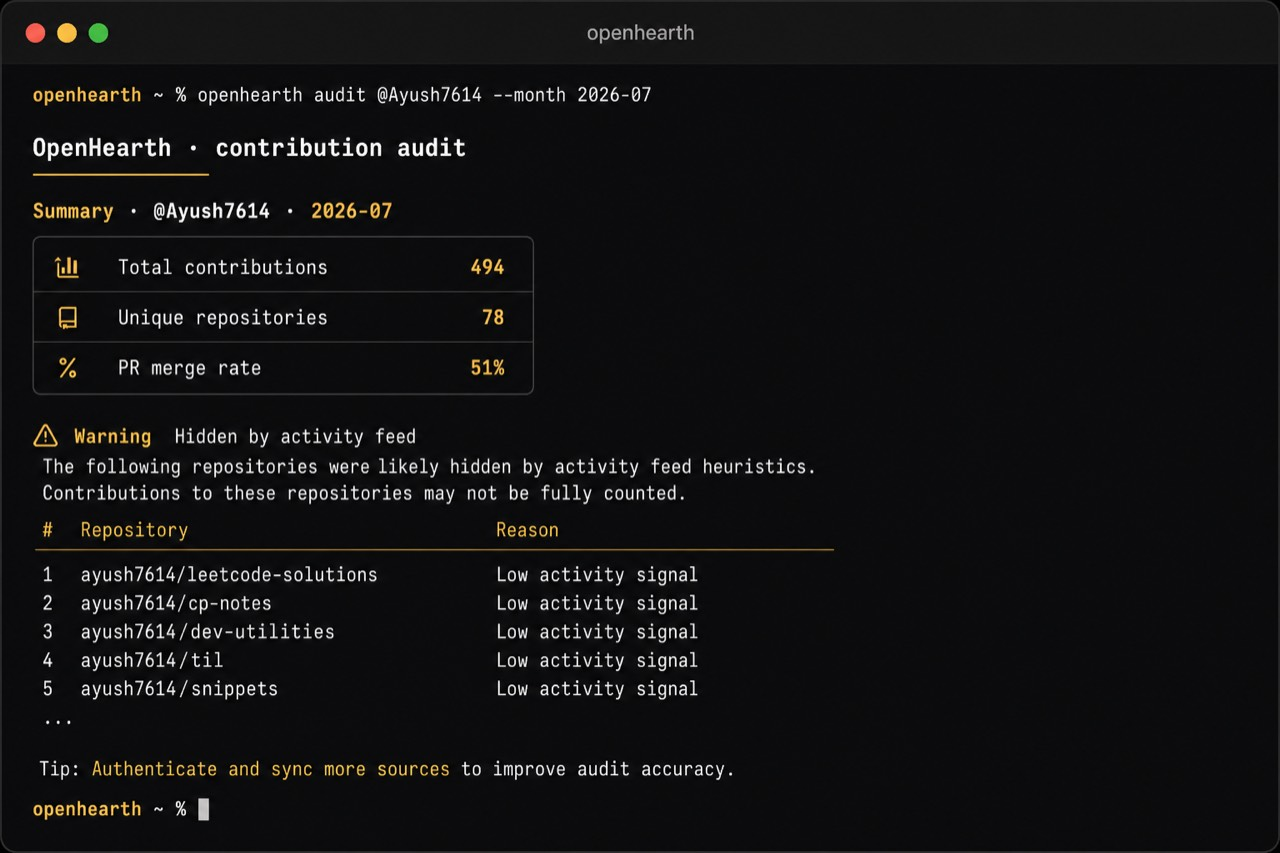
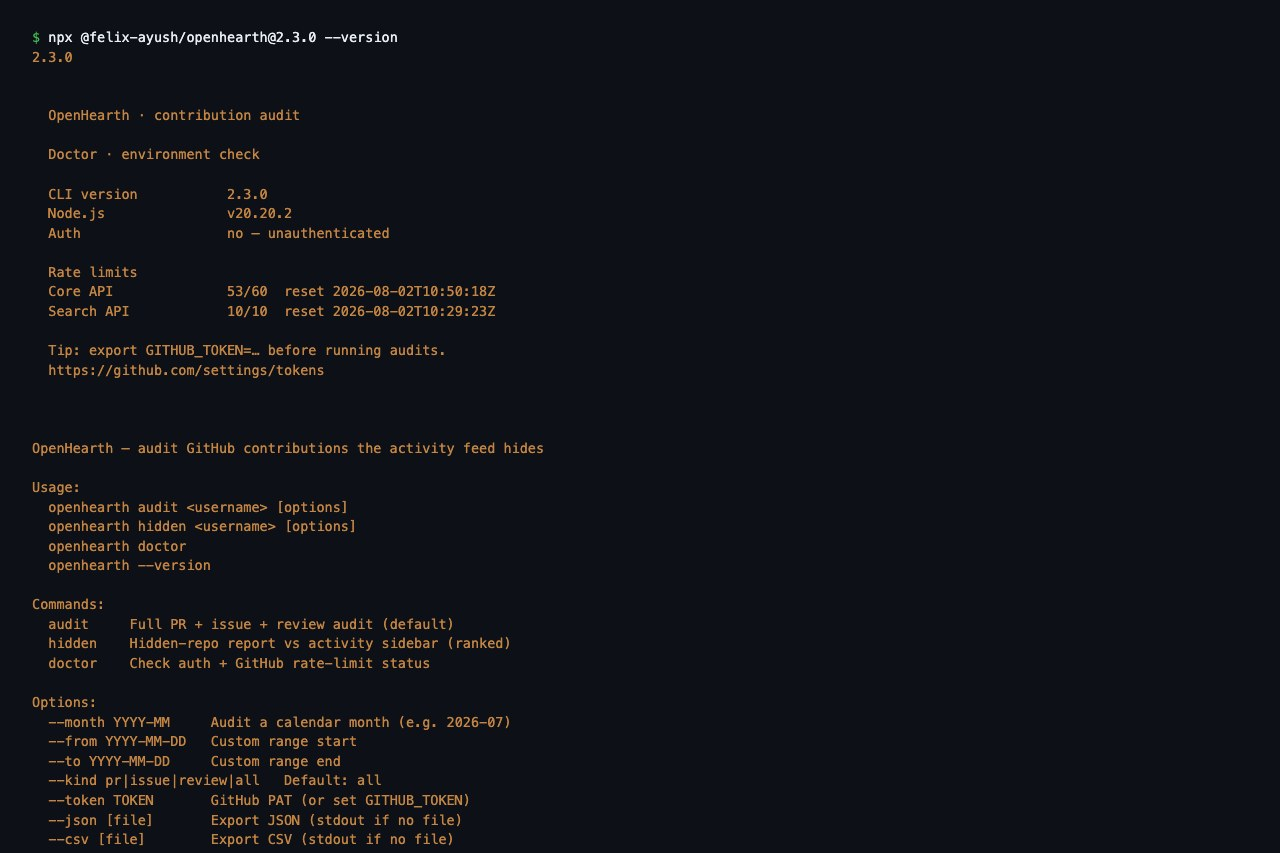
Replace README product shots with live Pages and CLI captures.
Add board.jpg and a small capture script so screenshots stay regenerable from the published site.

Changed region(s): [[0.0312, 0.4877, 0.625, 1.0], [0.0, 0.0305, 0.5, 0.4572], [0.4688, 0.0305, 0.5312, 0.061]]

diff --git a/scripts/capture-readme-shots.py b/scripts/capture-readme-shots.py
@@ -1,0 +1,121 @@
+#!/usr/bin/env python3
+"""Capture real README product screenshots from Pages + CLI."""
+
+from __future__ import annotations
+
+import html
+import os
+import pathlib
+import re
+import subprocess
+
+from playwright.sync_api import sync_playwright
+
+OUT = pathlib.Path(__file__).resolve().parents[1] / "docs" / "images"
+CHROME = "/Applications/Google Chrome.app/Contents/MacOS/Google Chrome"
+BASE = "https://ayush7614.github.io/OpenHearth/"
+ANSI_RE = re.compile(r"\x1b\[[0-9;]*[A-Za-z]|\[[0-9;]*m")
+
+
+def strip_ansi(text: str) -> str:
+    return ANSI_RE.sub("", text)
+
+
+def capture_site() -> None:
+    with sync_playwright() as p:
+        browser = p.chromium.launch(executable_path=CHROME, headless=True)
+
+        page = browser.new_page(viewport={"width": 1280, "height": 853})
+        page.goto(BASE, wait_until="networkidle", timeout=60000)
+        page.wait_for_timeout(1500)
+        page.screenshot(path=str(OUT / "landing.jpg"), type="jpeg", quality=88)
+        print("landing ok")
+        page.close()
+
+        # Tall viewport so we can clip Trends + MoM compare into 1280×853
+        context = browser.new_context(viewport={"width": 1280, "height": 1600})
+        page = context.new_page()
+        page.goto(BASE + "#/app", wait_until="networkidle", timeout=60000)
+        page.wait_for_timeout(1200)
+        page.evaluate("() => { localStorage.clear(); sessionStorage.clear(); }")
+        page.reload(wait_until="networkidle")
+        page.wait_for_timeout(1800)
+
+        got_it = page.locator("#dismiss-onboard")
+        if got_it.count() and got_it.is_visible():
+            got_it.click()
+
+        alice = page.locator('a.ws-card-main:has-text("Alice")')
+        if alice.count():
+            alice.first.click()
+        else:
+            page.locator(".ws-card-main").first.click()
+        page.wait_for_timeout(2000)
+        page.wait_for_selector("#chart-panel svg, #chart-panel canvas, #chart-panel .chart", timeout=10000)
+        box = page.locator(".track-section").bounding_box() or {"y": 700}
+        y = max(0, float(box["y"]) - 120)
+        page.screenshot(
+            path=str(OUT / "workspace.jpg"),
+            type="jpeg",
+            quality=90,
+            clip={"x": 0, "y": y, "width": 1280, "height": 853},
+        )
+        print("workspace ok")
+
+        page.goto(BASE + "#/app/board", wait_until="networkidle", timeout=60000)
+        page.wait_for_timeout(1500)
+        compare = page.locator('button:has-text("Compare")')
+        if compare.count() and compare.is_visible():
+            compare.click()
+            page.wait_for_timeout(800)
+        page.set_viewport_size({"width": 1280, "height": 853})
+        page.screenshot(path=str(OUT / "board.jpg"), type="jpeg", quality=88)
+        print("board ok")
+        browser.close()
+
+
+def capture_cli() -> None:
+    env = {**os.environ, "NO_COLOR": "1", "FORCE_COLOR": "0", "TERM": "dumb"}
+    parts: list[str] = []
+    for cmd in [
+        ["npx", "--yes", "@felix-ayush/openhearth@2.3.0", "--version"],
+        ["npx", "--yes", "@felix-ayush/openhearth@2.3.0", "doctor"],
+        ["npx", "--yes", "@felix-ayush/openhearth@2.3.0", "--help"],
+    ]:
+        try:
+            result = subprocess.run(
+                cmd, capture_output=True, text=True, timeout=180, check=False, env=env
+            )
+            parts.append(strip_ansi((result.stdout or "") + (result.stderr or "")))
+        except Exception as exc:  # noqa: BLE001
+            parts.append(str(exc))
+
+    cli = "\n".join(parts)[:2400]
+    safe = html.escape(cli)
+    tmp = OUT / "_cli.html"
+    tmp.write_text(
+        f"""<!DOCTYPE html><html><head><meta charset="utf-8"><style>
+html,body{{margin:0;background:#0d1117}}
+.term{{font-family:ui-monospace,SFMono-Regular,Menlo,Monaco,Consolas,monospace;font-size:13.5px;line-height:1.45;
+color:#e6edf3;padding:28px 32px;white-space:pre-wrap;width:1280px;height:853px;box-sizing:border-box;overflow:hidden}}
+.prompt{{color:#3fb950}}.accent{{color:#c48442}}
+</style></head><body><div class="term"><span class="prompt">$</span> npx @felix-ayush/openhearth@2.3.0 --version
+<span class="accent">{safe}</span>
+</div></body></html>"""
+    )
+
+    with sync_playwright() as p:
+        browser = p.chromium.launch(executable_path=CHROME, headless=True)
+        page = browser.new_page(viewport={"width": 1280, "height": 853})
+        page.goto(tmp.as_uri())
+        page.screenshot(path=str(OUT / "cli.jpg"), type="jpeg", quality=88)
+        print("cli ok")
+        browser.close()
+    tmp.unlink(missing_ok=True)
+
+
+if __name__ == "__main__":
+    OUT.mkdir(parents=True, exist_ok=True)
+    capture_site()
+    capture_cli()
+    print("done", sorted(p.name for p in OUT.iterdir()))

diff --git a/README.md b/README.md
@@ -15,9 +15,9 @@
 
 ## Product
 
-| Landing & docs | Browser workspaces | CLI |
-| --- | --- | --- |
-| <img src="docs/images/landing.jpg" alt="OpenHearth landing" width="280" /> | <img src="docs/images/workspace.jpg" alt="OpenHearth workspace UI" width="280" /> | <img src="docs/images/cli.jpg" alt="OpenHearth CLI terminal output" width="280" /> |
+| Landing & docs | Workspace detail | Multi-user board | CLI |
+| --- | --- | --- | --- |
+| <img src="docs/images/landing.jpg" alt="OpenHearth landing" width="220" /> | <img src="docs/images/workspace.jpg" alt="OpenHearth workspace with charts" width="220" /> | <img src="docs/images/board.jpg" alt="OpenHearth multi-user board compare" width="220" /> | <img src="docs/images/cli.jpg" alt="OpenHearth CLI terminal output" width="220" /> |
 
 - **Workspaces** — create a space per GitHub user, run audits, save months, chart trends, share reports, import CLI JSON  
 - **Board** — compare multiple users side by side with month-over-month deltas  
